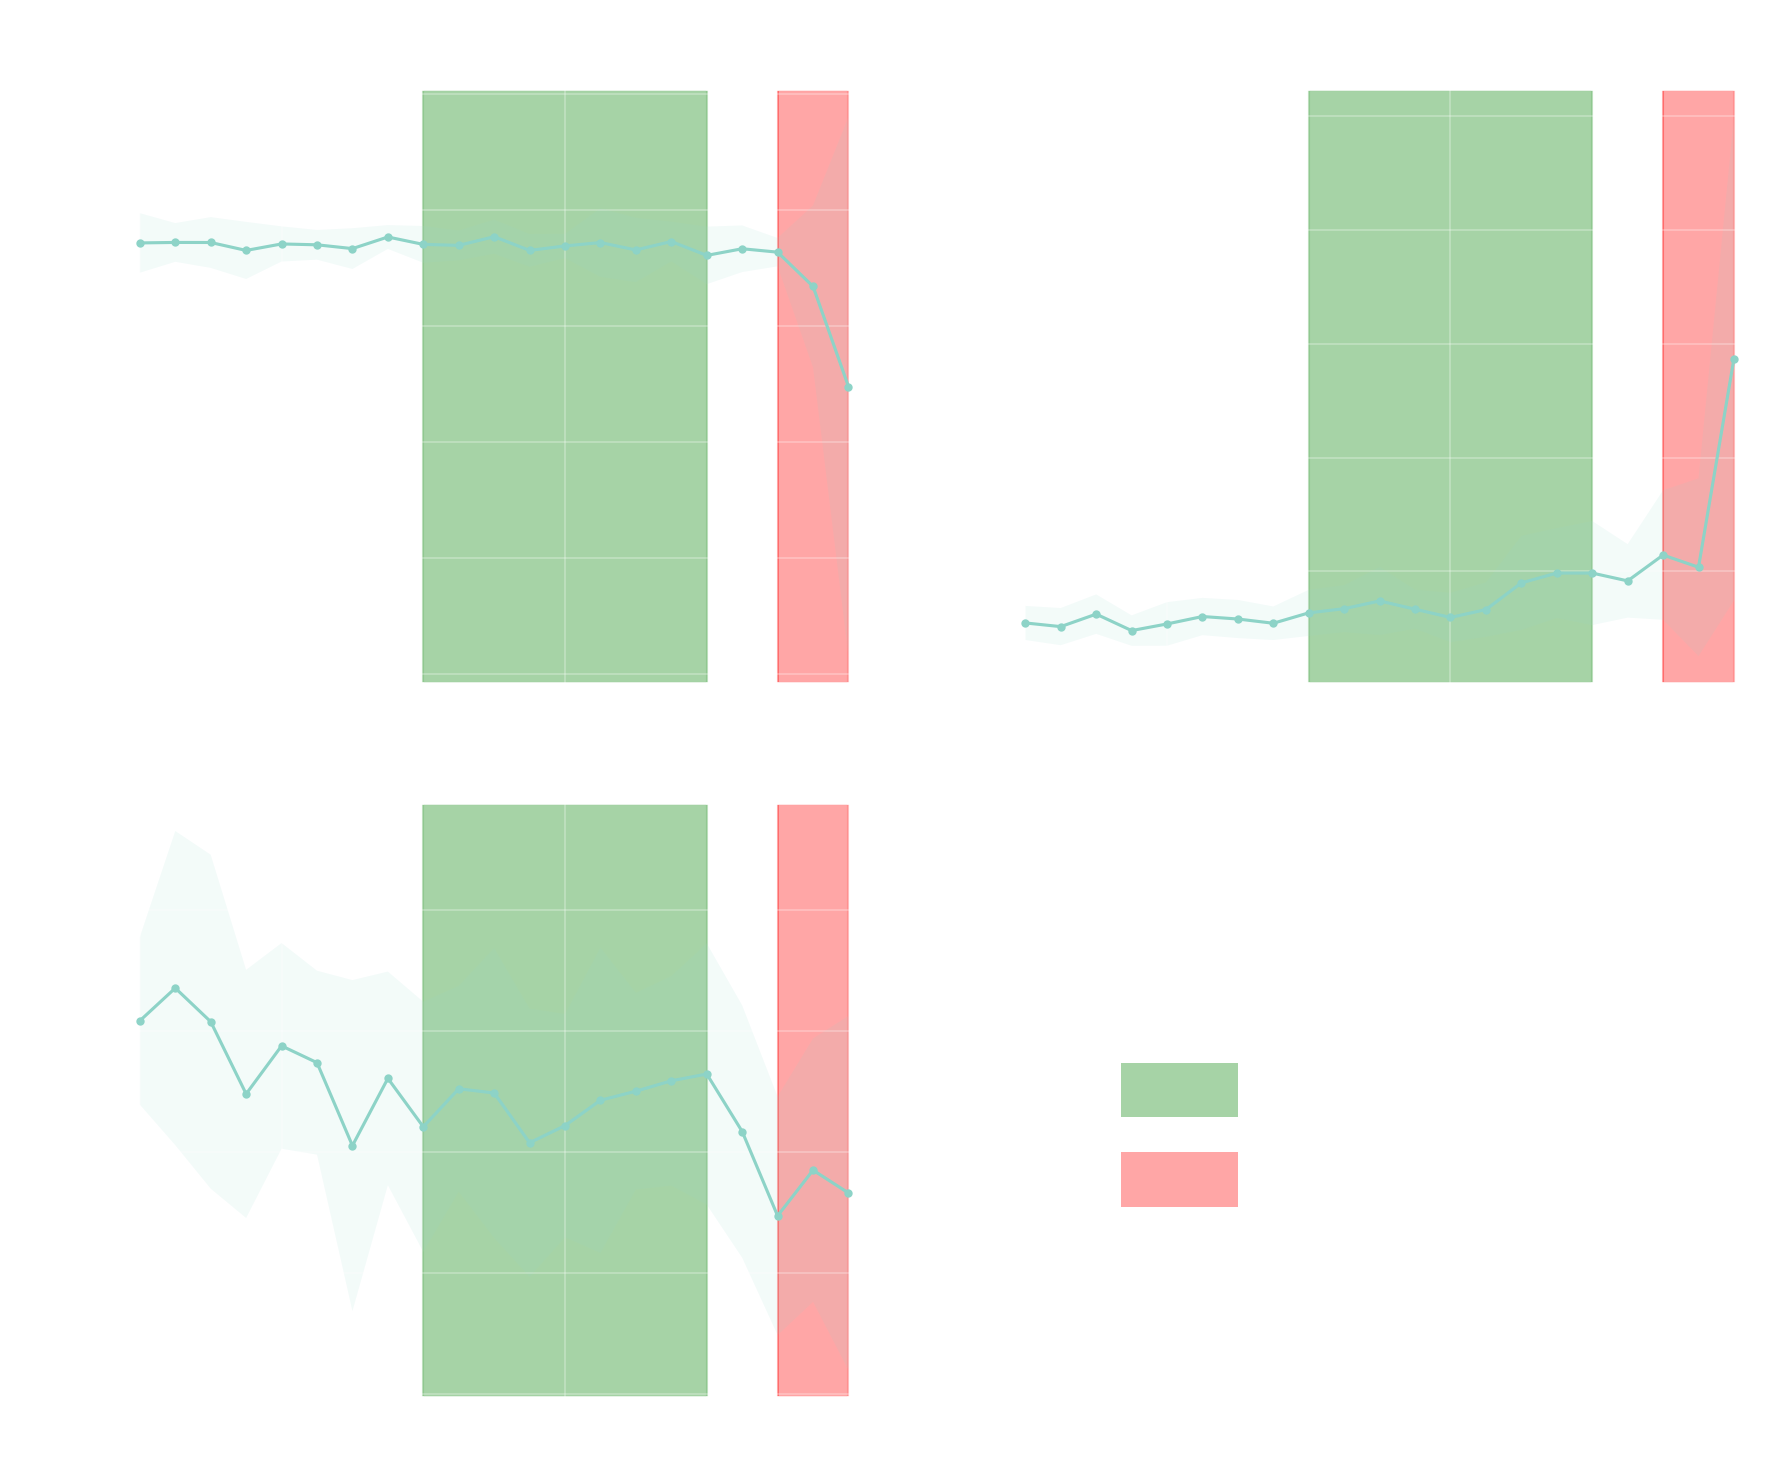
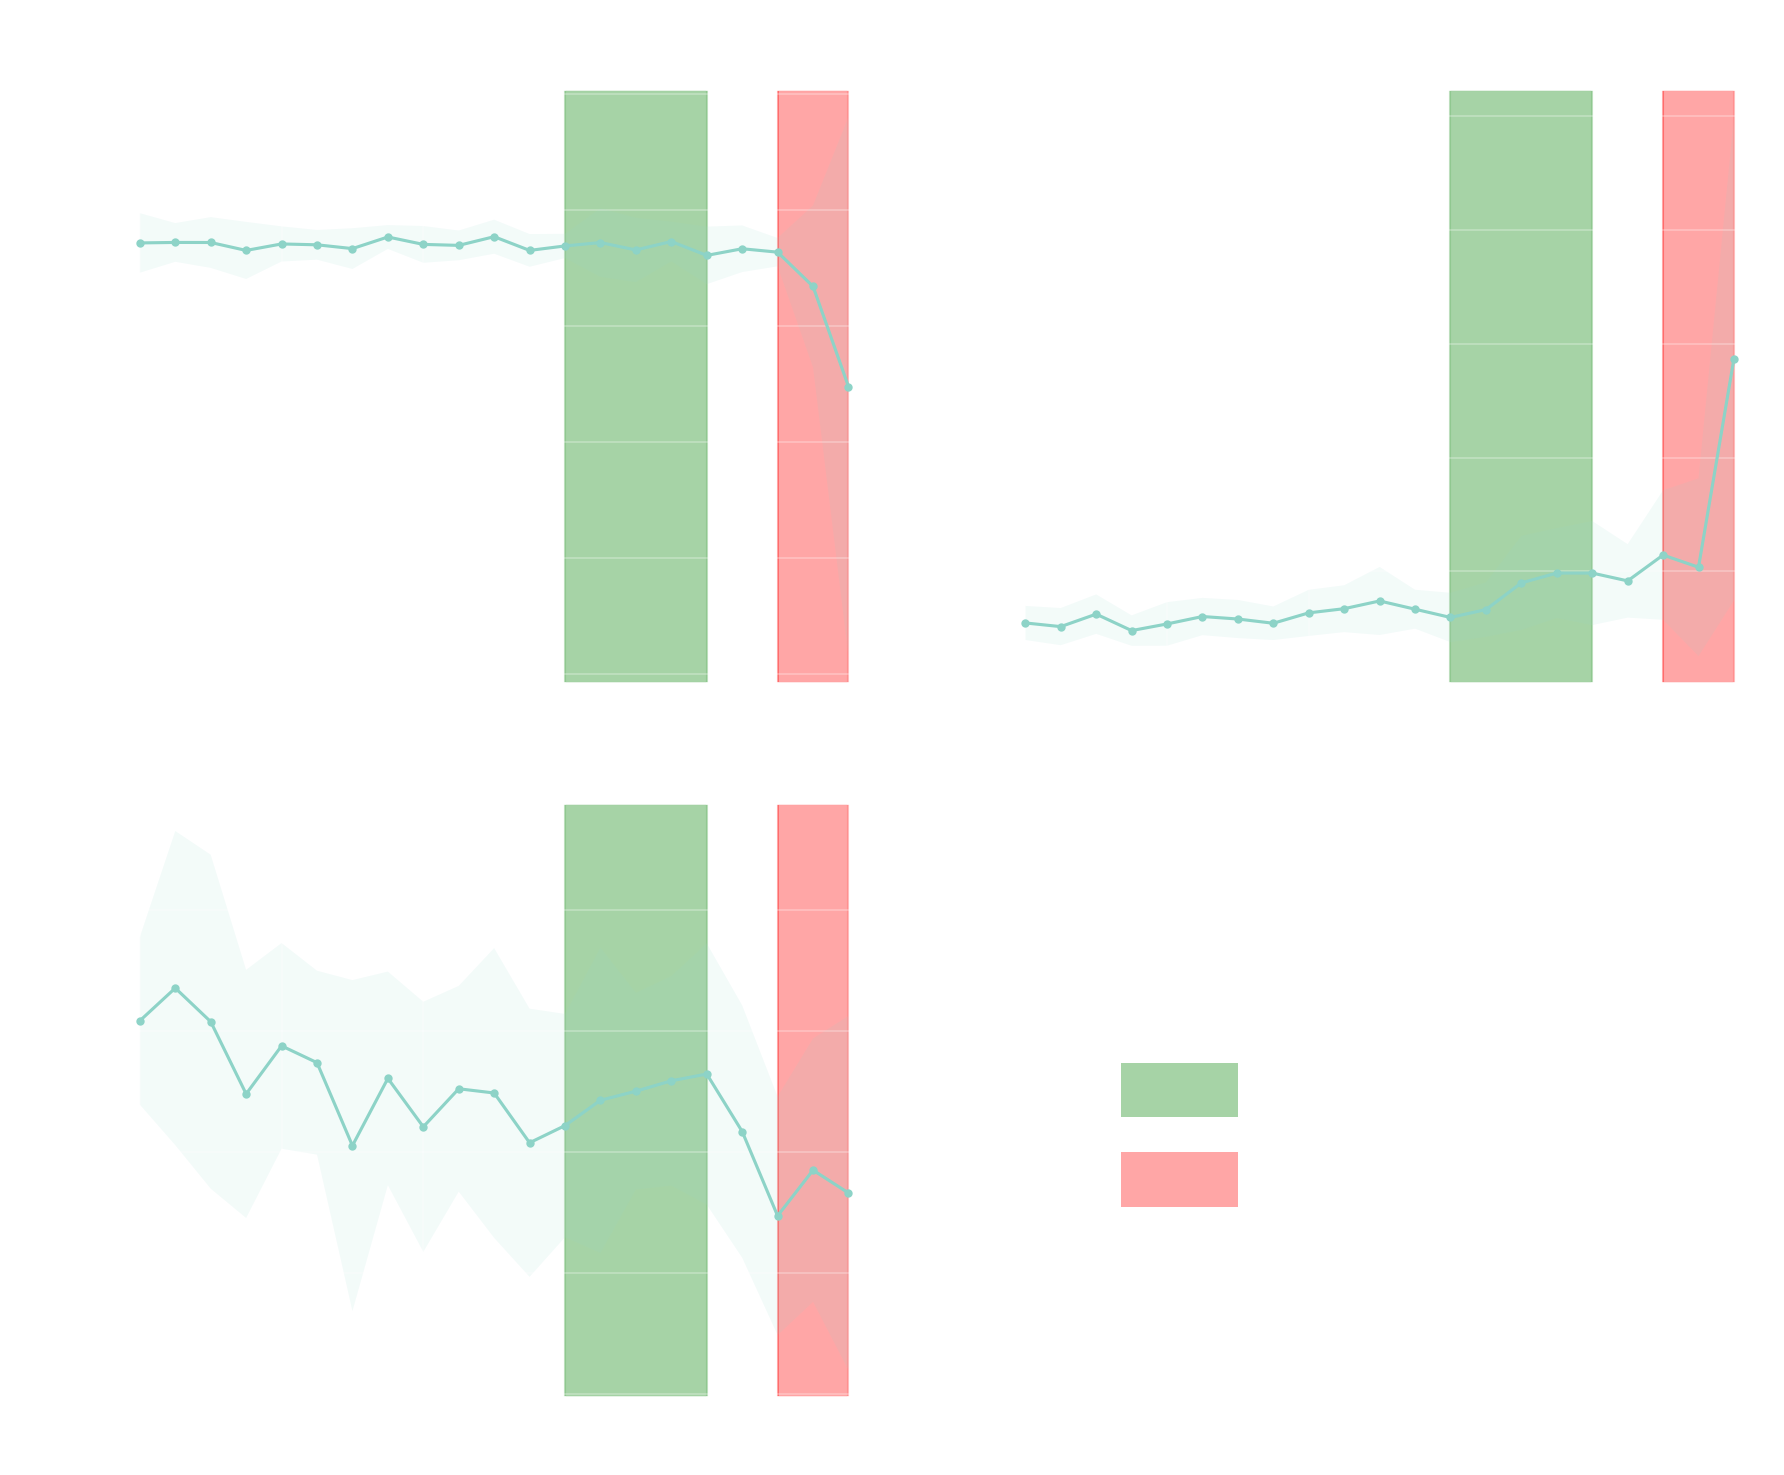
Anchors the singularity zone at T=1.2 to match the paper
The previous default sweet_spot=(1, 1.4) had the green band starting at T=1.0, but the paper's prose places the singularity zone between 1.2 and 1.4. Updates the default in plot_single_model_metrics and plot_temperature_zone, the README's findings line, and regenerates all ten figures (five English, five French dark-transparent variants) so they match.

Also adds a _<lang> filename suffix in metrics.py's render so non-English re-renders no longer clobber the English PNGs that the README links to. English keeps the historical unsuffixed names.

Changed region(s): [[0.2158, 0.5302, 0.3391, 0.9668], [0.7091, 0.0624, 0.8324, 0.4678], [0.2158, 0.0624, 0.3391, 0.4678]]

diff --git a/text_analysis.py b/text_analysis.py
@@ -295,7 +295,7 @@ PLOT_LABELS = {
 
 
 def plot_single_model_metrics(temp_stats, model_name, sample_size=30, error_type='ci', robust_center='mean',
-                              show_zones=False, sweet_spot=(1, 1.4), degradation_threshold=1.5,
+                              show_zones=False, sweet_spot=(1.2, 1.4), degradation_threshold=1.5,
                               figure_caption=None, language='fr'):
     """
     Create visualization for a single model's metrics with multiple error bar options.
@@ -462,8 +462,8 @@ def plot_single_model_metrics(temp_stats, model_name, sample_size=30, error_type
     return fig, axes
 
 
-def plot_temperature_zone(temp_stats, model_name, temp_min=0.75, temp_max=1.5, sample_size=30, error_type='ci', robust_center='mean', 
-                          show_zones=False, sweet_spot=(1, 1.4), degradation_threshold=1.5):
+def plot_temperature_zone(temp_stats, model_name, temp_min=0.75, temp_max=1.5, sample_size=30, error_type='ci', robust_center='mean',
+                          show_zones=False, sweet_spot=(1.2, 1.4), degradation_threshold=1.5):
     """
     Create visualization for a specific temperature range (zone of interest).
     

diff --git a/metrics.py b/metrics.py
@@ -57,7 +57,10 @@ def render(temp_stats, model_name, filename, language, save_figures,
     )
     if save_figures:
         FIGURES_DIR.mkdir(exist_ok=True)
-        fig.savefig(FIGURES_DIR / filename, dpi=150, transparent=True,
+        # English keeps the historical filenames so the README link is stable;
+        # other languages get a _<lang> suffix to avoid clobbering.
+        out_name = filename if language == "en" else filename.replace(".png", f"_{language}.png")
+        fig.savefig(FIGURES_DIR / out_name, dpi=150, transparent=True,
                     bbox_inches="tight")
     plt.show()
 

diff --git a/README.md b/README.md
@@ -17,7 +17,7 @@ Each metric is aggregated per temperature with a robust central tendency (median
 - **Singularity zone** (green) — diversity is climbing while integrity and similarity still hold.
 - **Breakdown regime** (red) — integrity collapses; the model is no longer producing coherent French.
 
-For gpt-4.1 on these prompts, the singularity zone sits around **T ∈ [1.0, 1.4]** and the breakdown regime starts around **T ≈ 1.5**.
+For gpt-4.1 on these prompts, the singularity zone sits around **T ∈ [1.2, 1.4]** and the breakdown regime starts around **T ≈ 1.5**.
 
 ## Repository layout
 
